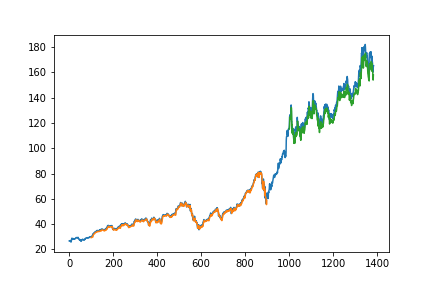
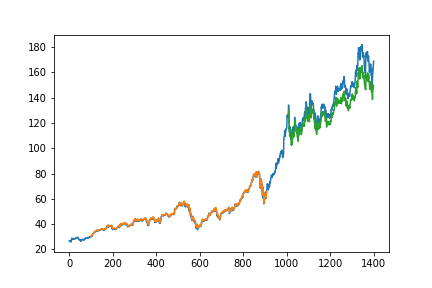
Added next 5days prediction

diff --git a/companyDashboard/views.py b/companyDashboard/views.py
@@ -13,12 +13,12 @@ import re
 from textblob import TextBlob
 from matplotlib import pyplot as plt
 
-predictions = {'msft': [279.18, 254.3, 222.94, 194.37, 173.37, 160.54, 153.72, 150.23, 148.12, 146.3, 144.37, 142.35, 140.47, 139.02, 138.28, 138.44, 139.6, 141.77, 144.89, 148.85, 153.53, 158.79, 164.48, 170.49, 176.7, 183.0, 189.27, 195.43, 201.34, 206.9],
-                'googl': [2549.75, 2302.73, 2035.02, 1806.52, 1637.91, 1522.21, 1442.86, 1384.44, 1335.67, 1288.98, 1239.66, 1185.18, 1124.93, 1060.05, 993.13, 927.7, 867.35, 814.9, 771.8, 738.17, 713.09, 695.16, 682.85, 674.74, 669.63, 666.58, 664.87, 663.96, 663.49, 663.2],
-                'fb': [208.2, 205.23, 202.32, 199.59, 197.17, 195.07, 193.3, 191.82, 190.6, 189.6, 188.77, 188.09, 187.52, 187.02, 186.59, 186.2, 185.84, 185.52, 185.23, 184.96, 184.73, 184.52, 184.35, 184.21, 184.11, 184.03, 183.99, 183.97, 183.98, 184.01],
-                'aapl': [158.78, 151.35, 144.65, 139.31, 135.28, 132.16, 129.5, 126.89, 124.08, 120.98, 117.59, 113.98, 110.22, 106.39, 102.52, 98.62, 94.67, 90.65, 86.53, 82.26, 77.83, 73.23, 68.45, 63.52, 58.49, 53.43, 48.42, 43.56, 38.95, 34.67],
-                'amzn': [2873.5, 2596.07, 2358.51, 2161.84, 1982.56, 1836.89, 1728.2, 1653.44, 1606.96, 1581.92, 1572.07, 1572.41, 1579.23, 1589.88, 1602.55, 1616.02, 1629.5, 1642.53, 1654.86, 1666.38, 1677.09, 1687.06, 1696.38, 1705.18, 1713.57, 1721.67, 1729.57, 1737.33, 1745.03, 1752.69],
-                'nflx': [392.27, 388.76, 384.19, 379.27, 374.66, 370.73, 367.61, 365.26, 363.53, 362.23, 361.16, 360.17, 359.17, 358.11, 356.96, 355.77, 354.57, 353.41, 352.32, 351.35, 350.49, 349.77, 349.17, 348.68, 348.3, 348.0, 347.78, 347.63, 347.54, 347.51]}
+predictions = {'msft': [276.05, 250.46, 218.15, 194.85, 184.05],
+                'googl': [2766.81, 2613.35, 2396.3, 2185.13, 2017.88],
+                'fb': [212.42, 207.31, 202.6, 198.47, 194.96],
+                'aapl': [153.21, 136.03, 122.87, 115.25, 111.79],
+                'amzn': [3167.77, 2973.0, 2839.76, 2758.27, 2705.03],
+                'nflx': [369.94, 358.01, 346.27, 335.1, 325.59]}
 # Create your views here.
 def dashboard(request):
     listedCompany = ['NASDAQ:MSFT', 'NASDAQ:GOOGL', 'NASDAQ:FB', 'NASDAQ:AAPL','NASDAQ:NFLX','NASDAQ:AMZN']
